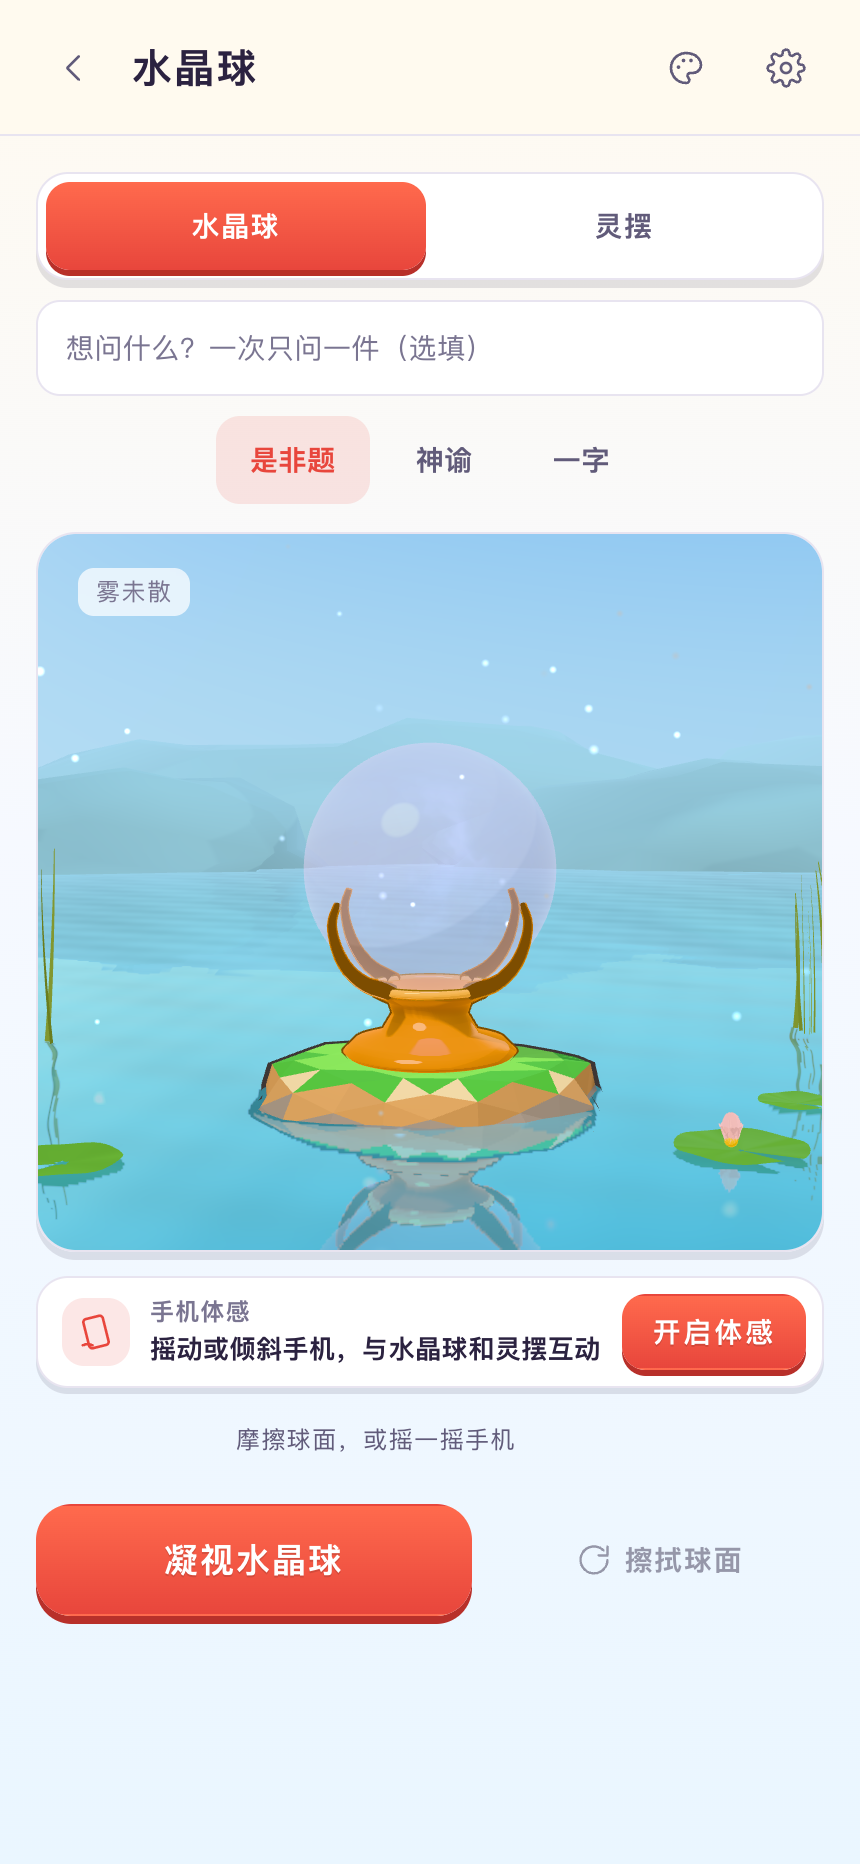
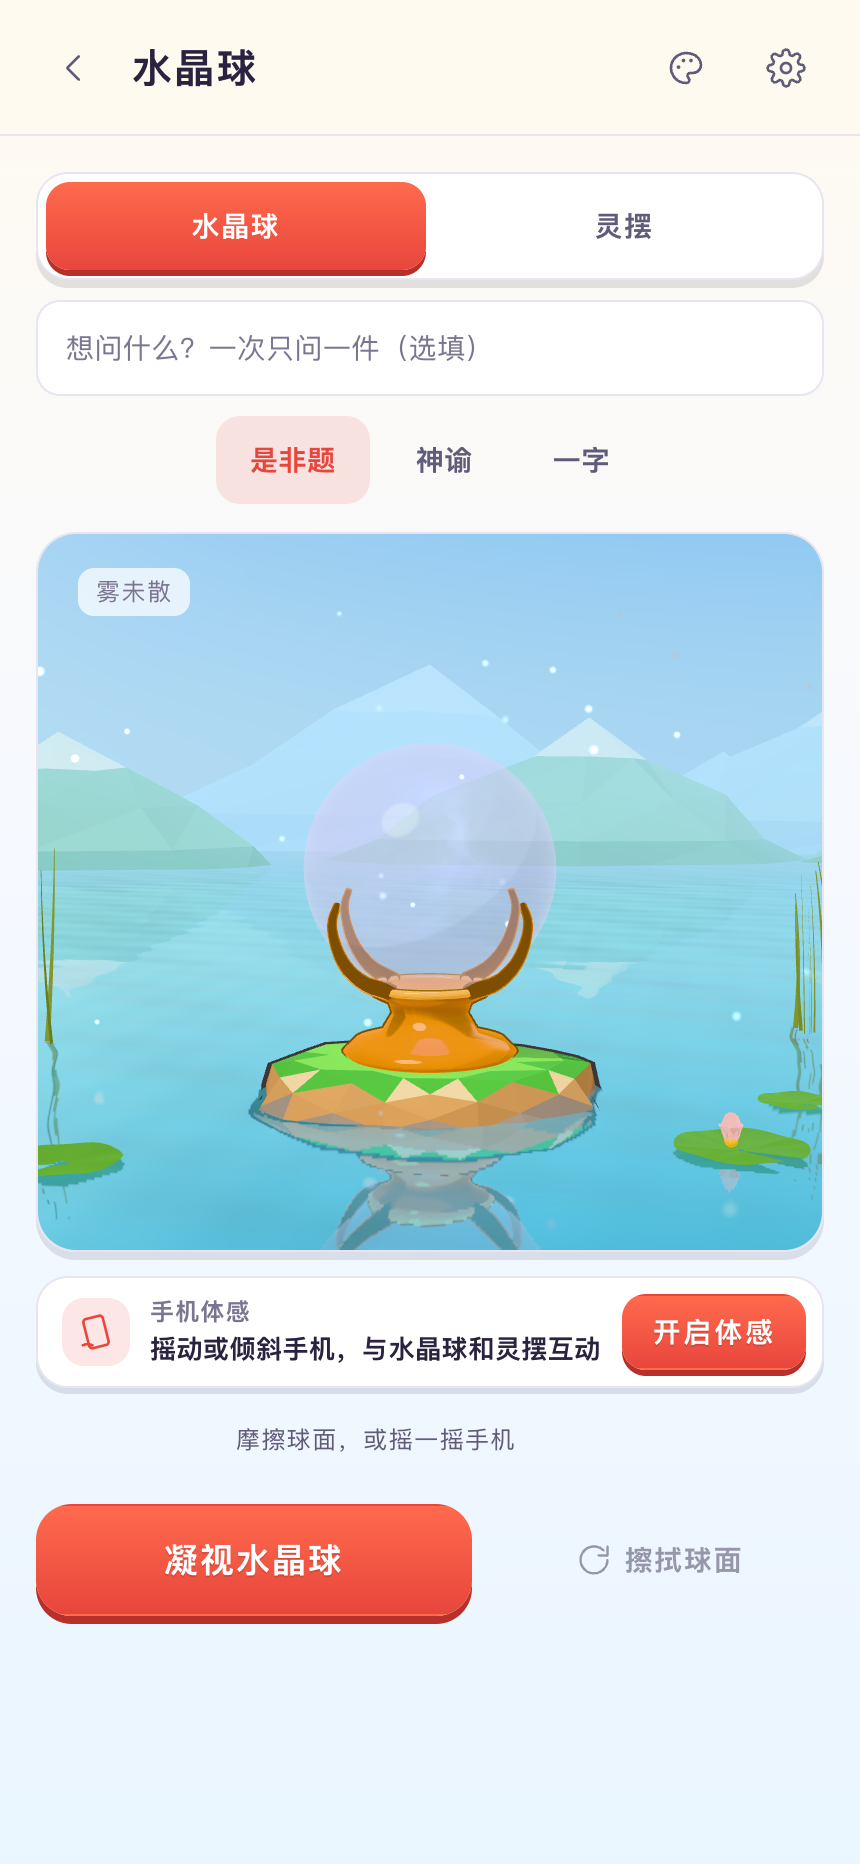
远山卡通化：平面着色切面山形两排、峰帽与夜色，按新石台重拍商店截图
Claude-Session: https://claude.ai/code/session_01RpvXTCVpTRNk9SpcAaP1Jn

diff --git a/src/ui/stage/atmosphere.js b/src/ui/stage/atmosphere.js
@@ -1,7 +1,7 @@
 // 氛围：随皮肤变化的天空与雾、风场、随风飘的粒子（花瓣 / 落叶 / 金尘 / 微尘）、
 // 岸边芦苇、浮萍荷叶、远山，以及只挂在指定材质上的柔光晕。
 import * as THREE from 'three';
-import { rng, noise, petalGeometry, leafGeometry, softDot, rock } from './organic.js';
+import { rng, noise, petalGeometry, leafGeometry, softDot, toonMountain, TOON_MOUNTAIN } from './organic.js';
 
 /** 每套皮肤的天空、雾、水色与光照强度。 */
 export const ATMOSPHERES = {
@@ -229,15 +229,30 @@ export function createLilyPads({ pads = [[1.6, .6, .32]], seed = 41, color = '#5
   return { object: group, update(t) { for (const it of items) { it.mesh.position.y = Math.sin(t * .9 + it.phase) * .006 + (it.mesh.isGroup ? .02 : 0); it.mesh.rotation.z = Math.sin(t * .7 + it.phase) * .02; } } };
 }
 
-/** 远山：雾里几座低矮山影，给画面纵深。 */
+/**
+ * 远山：雾里两排卡通山形，给画面纵深（visual-direction.md 第 2 节「远山」）。
+ * 后排偏天蓝、前排薄荷绿，平面着色切面 + 浅色峰帽，深色皮肤乘一层夜色。
+ */
+export const MOUNTAIN_ROWS = [
+  // [x, z, 宽, 高, 是否后排]
+  [-13, -27, 7, 4.6, true], [-1, -30, 9, 5.4, true], [12, -28, 8, 4.8, true],
+  [-8, -21, 5.5, 3.2, false], [3, -23, 6, 3.6, false], [15, -22, 6, 3.0, false],
+];
+export const MOUNTAIN_NIGHT = '#6a64b4';
 export function createMountains(atm, seed = 51) {
   const group = new THREE.Group();
-  const mat = new THREE.MeshStandardMaterial({ vertexColors: true, roughness: 1 });
-  const tone = new THREE.Color(atm.dark ? '#3a3570' : '#7fb8c9');
-  [[-9, -20, 6, 2.4], [-2, -24, 8, 3.2], [7, -21, 6.5, 2.6], [14, -26, 9, 3.6]].forEach(([x, z, w, h], i) => {
-    const g = rock({ seed: seed + i, radius: 1, height: 1, flatTop: 2, roughness: .45, detail: 3, stone: '#' + tone.getHexString(), dark: '#' + tone.clone().multiplyScalar(.7).getHexString(), mossAmount: 0 });
-    const m = new THREE.Mesh(g, mat); m.scale.set(w, h, w * .4); m.position.set(x, -1.5, z); group.add(m);
+  const back = { ...TOON_MOUNTAIN, body: '#9fd2e8', foot: '#86bfdc', cap: '#f4fbff' };
+  const mats = [];
+  MOUNTAIN_ROWS.forEach(([x, z, w, h, far], i) => {
+    const g = toonMountain({ seed: seed + i * 7, palette: far ? back : TOON_MOUNTAIN, shoulder: i % 3 !== 1 });
+    const mat = new THREE.MeshStandardMaterial({ vertexColors: true, color: '#ffffff', roughness: 1, metalness: 0, flatShading: true });
+    mats.push(mat);
+    const m = new THREE.Mesh(g, mat); m.scale.set(w, h, w * .45); m.position.set(x, -1.6, z);
+    m.userData.ground = true;
+    group.add(m);
   });
+  const tint = (a) => mats.forEach((m) => m.color.set(a?.dark ? MOUNTAIN_NIGHT : '#ffffff'));
+  group.userData.tint = tint; tint(atm);
   return { object: group };
 }
 

diff --git a/src/ui/stage/organic.js b/src/ui/stage/organic.js
@@ -94,6 +94,46 @@ export function toonRock({ seed = 1, radius = 1, height = 1, flatTop = .62, roug
   return g;
 }
 
+/**
+ * 卡通远山（手游背景里的大块山形）：低段数圆锥按噪声歪一歪，平面着色，
+ * 每座一个主峰加一个矮肩峰，山顶一圈浅色峰帽，山脚深一档，中间切面明度微调。
+ * 顶点色按面写（非索引），颜色硬分界。参数见 visual-direction.md 第 2 节「远山」。
+ */
+export const TOON_MOUNTAIN = { radial: 8, rings: 4, body: '#86c9b4', foot: '#6bb39f', cap: '#eefaf4', capAt: .7, footAt: .22, jitter: .05 };
+export function toonMountain({ seed = 1, palette = TOON_MOUNTAIN, shoulder = true } = {}) {
+  const nz = noise(seed), rand = rng(seed * 13 + 5);
+  const cone = (s, h, dx, lean) => {
+    const g = new THREE.ConeGeometry(1, 1, palette.radial, palette.rings);
+    g.deleteAttribute('normal'); g.deleteAttribute('uv');
+    const m = mergeVertices(g); g.dispose();
+    const p = m.attributes.position, v = new THREE.Vector3();
+    for (let i = 0; i < p.count; i++) {
+      v.fromBufferAttribute(p, i);
+      const t = v.y + .5; // 0 山脚 → 1 山尖
+      const n = nz.fbm(v.x * 1.3 + dx, v.y * 1.6, v.z * 1.3, 2);
+      const r = Math.hypot(v.x, v.z) * (1 + n * .32);
+      const a = Math.atan2(v.z, v.x);
+      p.setXYZ(i, (Math.cos(a) * r + lean * t) * s + dx, t * h * (1 + (t < 1 ? n * .12 : 0)), Math.sin(a) * r * s);
+    }
+    const ni = m.toNonIndexed(); m.dispose();
+    return ni;
+  };
+  const parts = [cone(1, 1, 0, (rand() - .5) * .35)];
+  if (shoulder) parts.push(cone(.62, .62, (rand() > .5 ? 1 : -1) * (.55 + rand() * .2), (rand() - .5) * .3));
+  const g = mergeGeometries(parts); parts.forEach((x) => x.dispose());
+  g.computeVertexNormals();
+  const pos = g.attributes.position, colors = new Float32Array(pos.count * 3);
+  const cb = new THREE.Color(palette.body), cf = new THREE.Color(palette.foot), cc = new THREE.Color(palette.cap), c = new THREE.Color();
+  for (let f = 0; f < pos.count; f += 3) {
+    const cy = (pos.getY(f) + pos.getY(f + 1) + pos.getY(f + 2)) / 3;
+    const k = 1 + (rand() - .5) * 2 * palette.jitter;
+    c.copy(cy > palette.capAt ? cc : cy < palette.footAt ? cf : cb).multiplyScalar(cy > palette.capAt ? 1 : k);
+    for (let j = 0; j < 3; j++) colors.set([c.r, c.g, c.b], (f + j) * 3);
+  }
+  g.setAttribute('color', new THREE.BufferAttribute(colors, 3));
+  return g;
+}
+
 /** 渐细的管：沿样条走，半径按 radius(t) 变化，可加树皮噪声。用于树干、枝条、梯杆、红绳。 */
 export function taperedTube(points, radius, { radial = 10, segments = 48, bark = 0, seed = 3, closed = false } = {}) {
   const curve = points instanceof THREE.Curve ? points : new THREE.CatmullRomCurve3(points.map(p => new THREE.Vector3(...p)), closed, 'centripetal');

diff --git a/docs/claude-plan/TODO.md b/docs/claude-plan/TODO.md
@@ -38,8 +38,8 @@ P0 上架必需 · P1 影响付费转化 · P2 体验打磨。完成后打勾并
 - [x] **卡通化补完** ✅ 2026-10-22（第 6 轮，见 run-log 第 6 轮。树叶有意不描边：双面开放曲面加外壳会在背面成片发暗，且 560 片的开销不划算）：灵摆水晶（透射材质，仍是写实）、元宝揭晓时发光偏白、双面材质（同心结丝绳）没有描边、叶片与流苏等实例化物体没有描边、风水罗盘俯视角下石台左右边缘有白色碎边（不是水面反射，也不是描边，待查光照或阴影）。完成标准：gallery:3d 11 件器物浅深两套截图逐一过目，无写实材质残留。
 
 - [x] **3D 场景配件卡通化：石台与木器** ✅ 2026-10-24（第 17 轮，11 件器物中有 10 个场景站在同一种水中石台上，原来是写实噪声岩石 + 青苔噪点，灰褐发闷，和卡通器物放在一起最显旧。新增 `toonRock`：低细分平面着色切面，顶面亮草地带深一档草边，侧面上浅下深两段沙岩，水线以下变深变冷，深色皮肤再乘一层冷紫夜色（换皮肤时引擎同步）。罗盘托盘从近黑的深褐改为朱红木，灵摆底盘改浅木并把揭晓发光改成朱橙（原来橙光叠在橙木上看不清「是」），八字底座、财运树干、同心结树枝、青云梯扶手全部提亮。`tests/toon-rock.test.mjs` 3 项，gallery:3d 浅色 11 件、深色 4 件逐张过目）（第 17 轮发现）：完成标准：石台不再出现写实石纹，木器不再是近黑色，深浅皮肤下小岛与背景协调。
-- [ ] **按新石台重拍商店截图**（P1，第 17 轮发现）：`docs/claude-plan/store/` 里的 12 张图还是写实石台。完成标准：`node scripts/store-shots.mjs` 重跑，12 张逐张过目，塔罗仍是积极正位牌。
-- [ ] **远山卡通化**（P2，第 17 轮发现）：背景远山仍是写实噪声岩石，被雾盖住影响不大，但和新石台的切面风格不一致。完成标准：远山改为平面着色的大块山形，雾里仍能读出层次。
+- [x] **按新石台重拍商店截图** ✅ 2026-10-24（第 18 轮，在远山卡通化之后重拍，整套 155 秒，12 张尺寸核对 1290×2796 与 1242×2688，逐张过目：灵签上吉签，塔罗「圣杯三 · 正位」，财运、姻缘、水晶球三张是新的草地小岛和卡通远山）（P1，第 17 轮发现）：`docs/claude-plan/store/` 里的 12 张图还是写实石台。完成标准：`node scripts/store-shots.mjs` 重跑，12 张逐张过目，塔罗仍是积极正位牌。
+- [x] **远山卡通化** ✅ 2026-10-24（第 18 轮，`src/ui/stage/organic.js` 新增 `toonMountain`：8 边圆锥按噪声歪斜，主峰加肩峰，平面着色切面，浅色峰帽、深一档山脚。`atmosphere.js` 的远山改为两排 6 座，后排天蓝、前排薄荷绿，雾负责远近层次。深色皮肤乘夜色 #6a64b4，换皮肤时同步。参数写进 visual-direction.md 第 2 节「远山」。`tests/toon-mountain.test.mjs` 3 项，gallery:3d 浅深各 4 件过目）（P2，第 17 轮发现）：背景远山仍是写实噪声岩石，被雾盖住影响不大，但和新石台的切面风格不一致。完成标准：远山改为平面着色的大块山形，雾里仍能读出层次。
 - [x] **水晶球底座的粉色斑块** ✅ 2026-10-24（第 17 轮查明：不是高光，是半透明淡紫玻璃球的底部叠在橙色底座上透出来的颜色，属于正常的玻璃效果，不改。顺带把卡通硬高光改为跟随本体色提亮，彩色器物上的高光不再是纯白，`src/ui/stage/toon.js`）（P2，第 17 轮发现）：橙金色底座上在截图里有一块粉色。完成标准：查明来源，若是高光则改为跟随本体色。
 
 - [x] **玩法页首屏重排** ✅ 2026-10-22（第 4 轮，体感授权移到舞台正下方一行，姻缘生辰表单折叠为一行 `createBirthFold`，财运事业的生辰行移到舞台下方，393×852 下舞台顶部约 155px）：3D 舞台进入首屏上半部，体感授权卡改为舞台下一行提示，生辰卡折叠。完成标准：393×852 截图中舞台顶部在 300px 以内。

diff --git a/docs/claude-plan/run-log.md b/docs/claude-plan/run-log.md
@@ -548,3 +548,33 @@
 - 新石台（草地小岛）的观感，装到 iPhone 上看一眼是否喜欢。
 
 推送结果：提交 81a48fc 推送成功。
+
+## 第 18 轮 · 2026-10-24 10:54 UTC 起（PDT 03:54，定时任务）
+
+开始状态：与远端一致，.lock 为 idle。工作区只有一个未跟踪的 `docs/claude-plan/screenshots/report.json`，是上一轮截图脚本生成后没有加进提交的检查报告，不是 Peyton 的改动。本轮截图会重新生成它，这次一并提交。
+
+完成的待办：
+- ✅ P2 远山卡通化（提前到重拍商店图之前做，免得商店图拍两次）。
+  - `src/ui/stage/organic.js` 新增 `toonMountain`：8 边圆锥 4 段按噪声歪斜，主峰加一个 0.62 倍肩峰，非索引几何平面着色，每个切面一种颜色。高度 0.7 以上是浅色峰帽，0.22 以下山脚深一档，山腰切面明度 ±5%。
+  - `src/ui/stage/atmosphere.js` 的 `createMountains` 改为两排 6 座：后排天蓝 #9fd2e8、前排薄荷 #86c9b4，雾负责远近层次。深色皮肤乘夜色 #6a64b4，换皮肤时引擎通过 `userData.tint` 同步。原来的写实噪声岩石不再用于远山。
+  - `visual-direction.md` 第 2 节表格新增「远山」一行。
+  - `tests/toon-mountain.test.mjs` 3 项（切面同色、峰帽亮山脚深、两排 6 座与夜色）。
+- ✅ P1 按新石台重拍商店截图：`node scripts/store-shots.mjs` 整套 155 秒，12 张尺寸核对 1290×2796 与 1242×2688。逐张过目：灵签上吉签，塔罗「圣杯三 · 正位」，财运、姻缘、水晶球三张是草地小岛加卡通远山。
+
+检查结果：
+- `npm run build` 通过，`npm test` 391 项全部通过（新增 3 项）。
+- `npm run e2e` 32 项全部通过（约 13 分钟）。
+- gallery:3d：摇钱树、水晶球、浑天仪、同心结在宣纸与玄墨两套皮肤下逐张过目，远山是带峰帽的切面山形，雾里能读出两排层次，夜里山影是冷紫色不抢器物。
+- 截图（docs/claude-plan/screenshots/，已用 git rm 删掉上一轮 12 张）：宣纸皮肤财运、水晶球、风水、姻缘，玄墨皮肤财运、水晶球，393×852 与 430×932 共 12 张。report.json 无横向溢出、无报错。逐张过目，文字无截断。393 宽下水晶球页的体感提示折成两行，属于正常换行。
+
+遗留问题：
+- 财运滚动白带（P2）仍需真机录屏确认。
+- 罗盘场景俯视角下看不到远山，属于构图，不改。
+
+下一轮计划：复查各玩法结果条与分享卡在 430 宽下的观感（拖了两轮），再评估主屏小组件的最小做法（只做每日一签）。
+
+待 Peyton 决定：
+- 在 Xcode 里选 App 方案点一次运行，看付费卡与皮肤单买卡的本地化价格（StoreKit 配置已挂好）。
+- 年龄分级按 13+ 填写、3 个皮肤内购与价格档位、GitHub Pages 合并时机、TestFlight 是否每轮自动上传，同前几轮。
+- 断签提醒要不要做（需要通知权限），徽章名字是否满意。
+- 新石台和远山的观感，装到 iPhone 上看一眼。新商店截图在 docs/claude-plan/store/，可以直接用于 App Store Connect。

diff --git a/docs/claude-plan/visual-direction.md b/docs/claude-plan/visual-direction.md
@@ -22,6 +22,7 @@
 | 配色 | 主色饱和度 ≥ 65%，明度 50–70%。红 #e8463c、金 #ffc93c、玉绿 #3fcf8e、天蓝 #4fb8ff、紫 #9b6bff、木 #b8743a |
 | 阴影 | 保留主光投影，阴影颜色偏冷紫（地光 #6a7bd6），PCF 软阴影半径 3，不再整体压暗 |
 | 石台（水中小岛） | 第 17 轮起用 `toonRock`：二十面体细分 3 级、起伏 0.2、平面着色出切面，每个面一种颜色。顶面亮草地 #86dc5c、外圈草边 #5cbf4c，侧面上段沙岩 #f2dcab、下段 #cf9f66，水线以下向 #6f9fb8 混 45% 再压暗 15%，切面明度随机 ±4.5%。不要写实石纹和青苔噪点 |
+| 远山 | 第 18 轮起用 `toonMountain`：8 边圆锥 4 段、噪声歪斜，每座主峰加一个 0.62 倍肩峰，平面着色。两排共 6 座：后排天蓝 #9fd2e8、山脚 #86bfdc、峰帽 #f4fbff，前排薄荷 #86c9b4、山脚 #6bb39f、峰帽 #eefaf4，峰帽在高度 0.7 以上，山脚在 0.22 以下，切面明度 ±5%。深色皮肤乘夜色 #6a64b4。雾负责远近层次，不另加描边 |
 | 天空与雾 | 浅色皮肤：天顶 #5ab8ff、地平线 #b4e3ff、水面 #4cc3d9 / 深水 #2789b8，雾距为场景原值 × 1.6（约 14–43 米）。深色皮肤：天顶 #1b1446、地平线 #4a3a8c，星点保留 |
 | 光照 | 半球光 天空 #e8f6ff / 地面 #ffd9a0，强度 1.05。主光暖白 #fff1d6 强度 1.5（三段明暗的亮段覆盖面大，主光再强会让朝光面过曝发白），位置 (−3.2, 5.6, 4.4)。轮廓光 #cfe0ff 0.6 |
 | 色调映射 | 保留 Neutral，曝光 1.05（浅色）/ 1.1（深色） |
